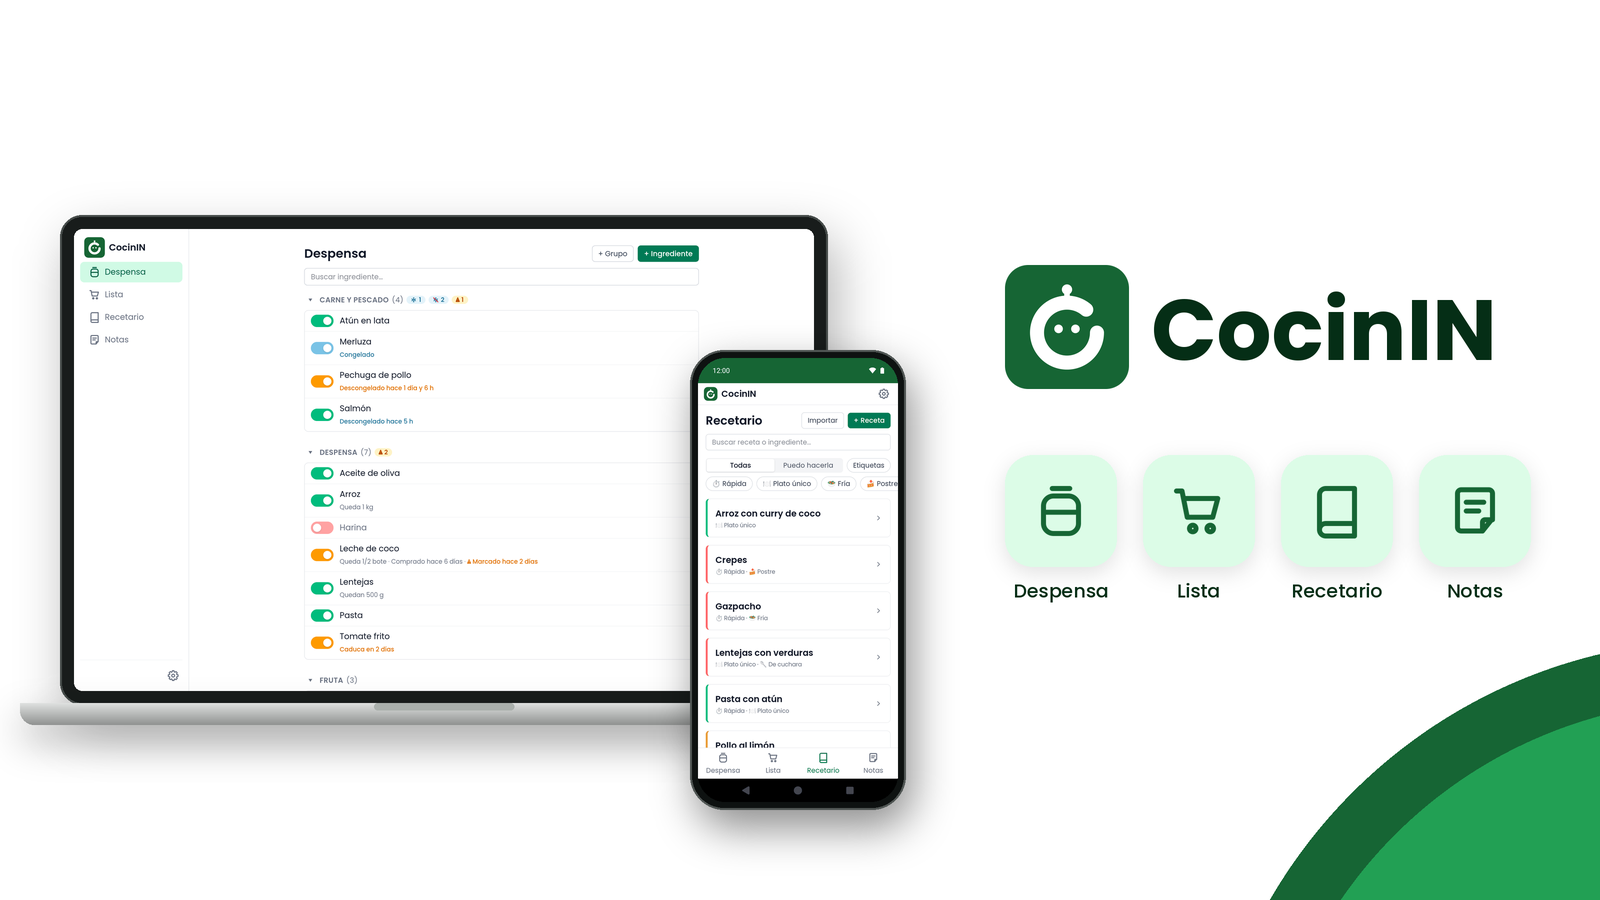
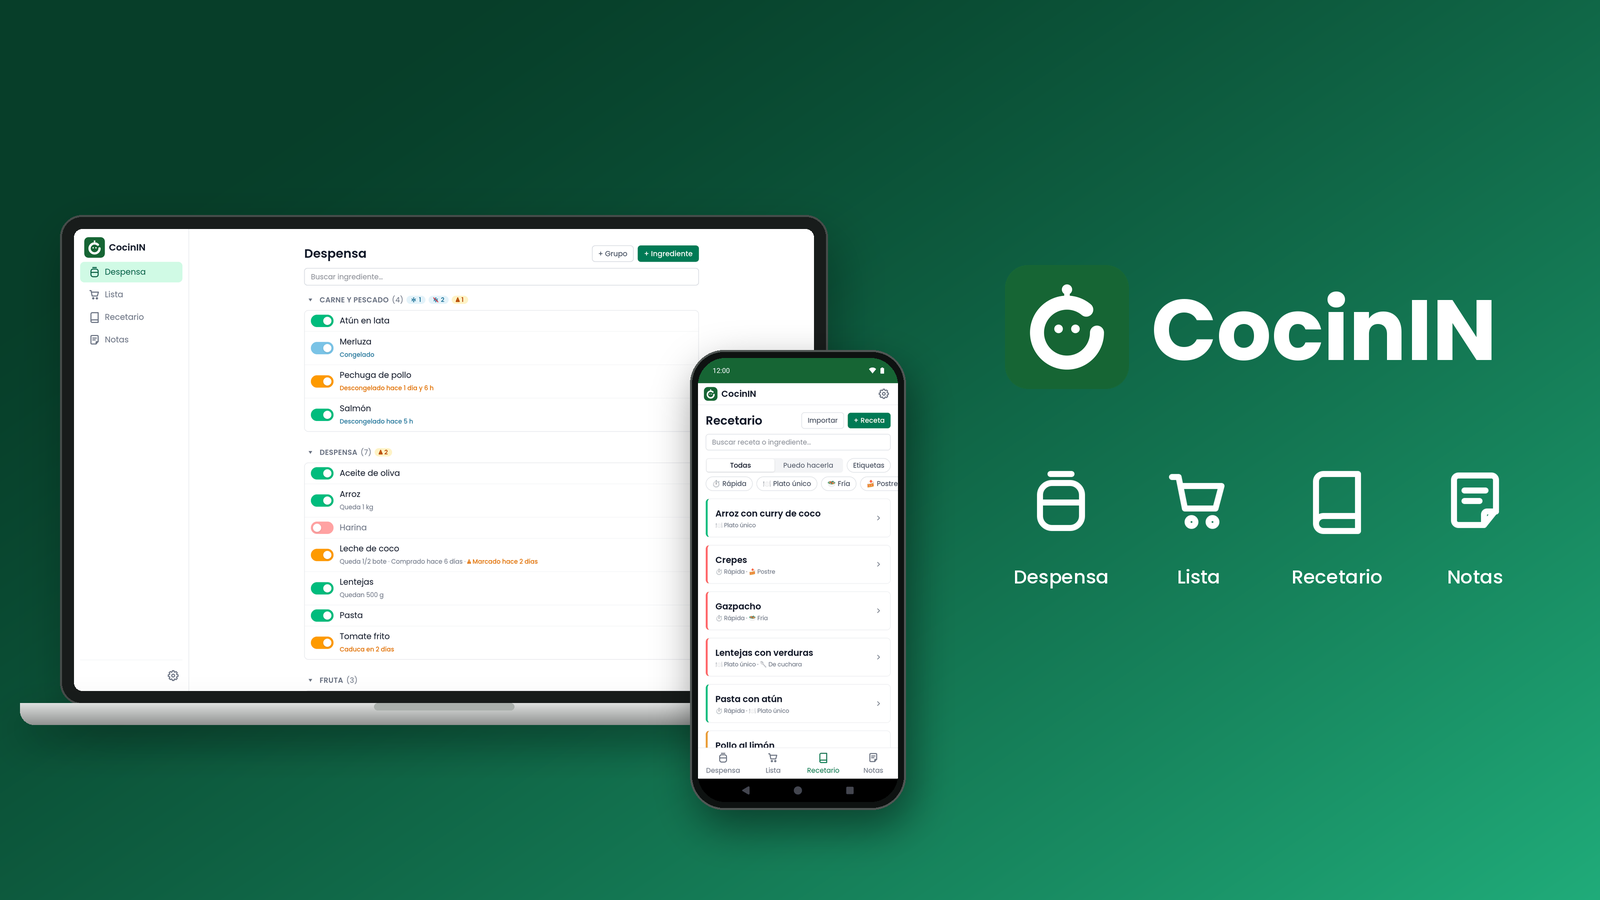
Portada: fondo degradado verde, iconos y texto en blanco

diff --git a/README.md b/README.md
@@ -10,7 +10,7 @@
 </p>
 
 <p align="center">
-  <img src="docs/hero.png?v=2" alt="CocinIN en el ordenador y en el móvil">
+  <img src="docs/hero.png?v=3" alt="CocinIN en el ordenador y en el móvil">
 </p>
 
 ## ¿Qué es?
